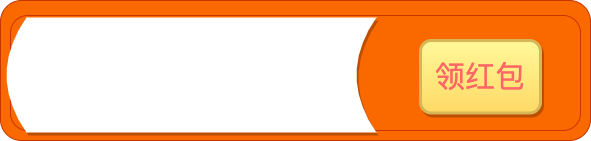
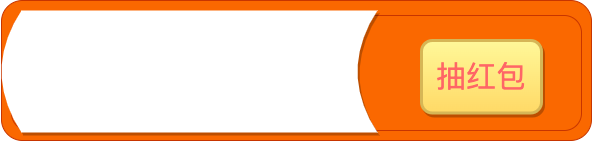
feat: draw/cash prize switch ok

diff --git a/page_subject/pages/recommend.vue b/page_subject/pages/recommend.vue
@@ -17,7 +17,7 @@
 		</view>
 
 
-		<image class="draw_prize_btn" src="/page_subject/static/draw_prize_btn.png"></image>
+		<image class="draw_prize_btn" :src="drawPrizeBtnImageURL"></image>
 
 		<view style=" margin-top:30rpx">
 			<text class="centerAlign" style=" font-weight:700">我的邀请</text>
@@ -105,7 +105,8 @@ export default {
 
 	data() {
 		return {
-			activityRuleBackgroundImageURL: "/page_subject/static/activity_bg_for_new_user.png",
+			activityRuleBackgroundImageURL: "/page_subject/static/activity_bg_for_old_user.png",
+			drawPrizeBtnImageURL: "/page_subject/static/draw_prize_btn.png",
 
 			recommendCode: this.$store.state.vuex_user.wx_open_id,
 			showPop: false,
@@ -132,7 +133,10 @@ export default {
 	async onShow() {
 		if (this.$store.state.vuex_user.draw_count <= 0) {
 			this.hasDrawedBefore = false
+			this.activityRuleBackgroundImageURL = "/page_subject/static/activity_bg_for_new_user.png"
+			this.drawPrizeBtnImageURL = "/page_subject/static/cash_prize_btn.png"
 		}
+		console.debug("是否已经参与过抽奖: ", this.hasDrawedBefore)
 		await this.refreshRecommendUserList()
 		await this.getRecommendRule()
 
